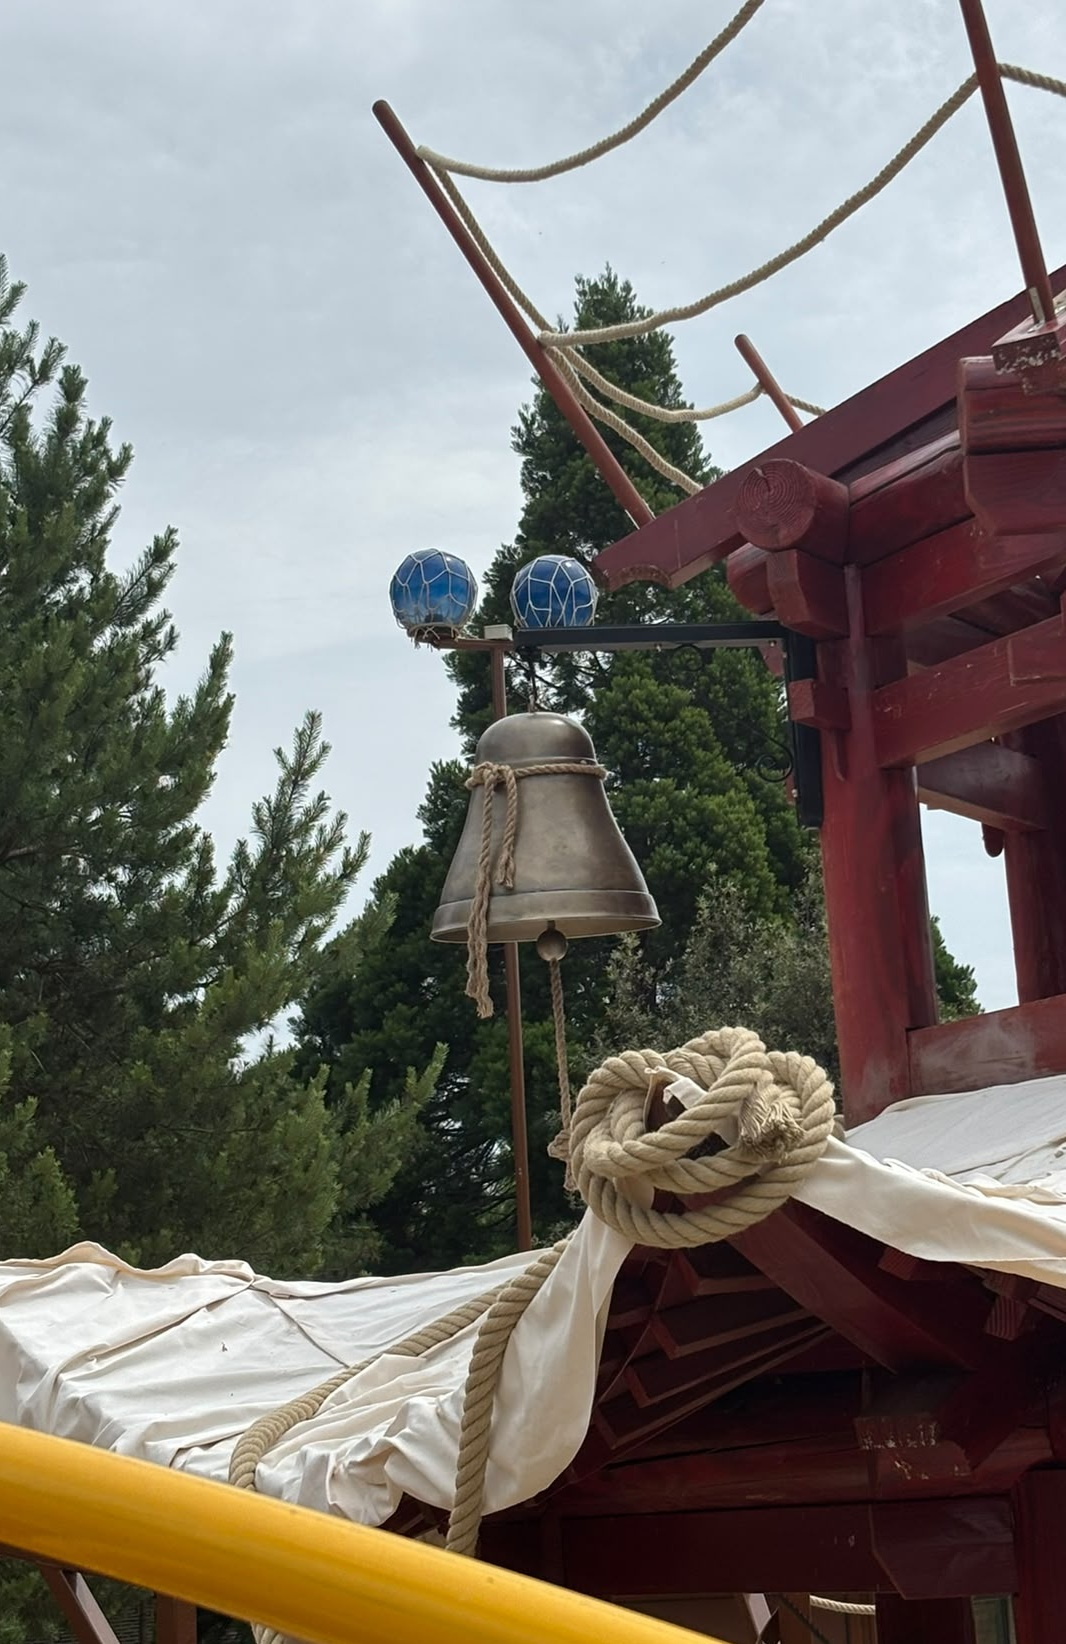
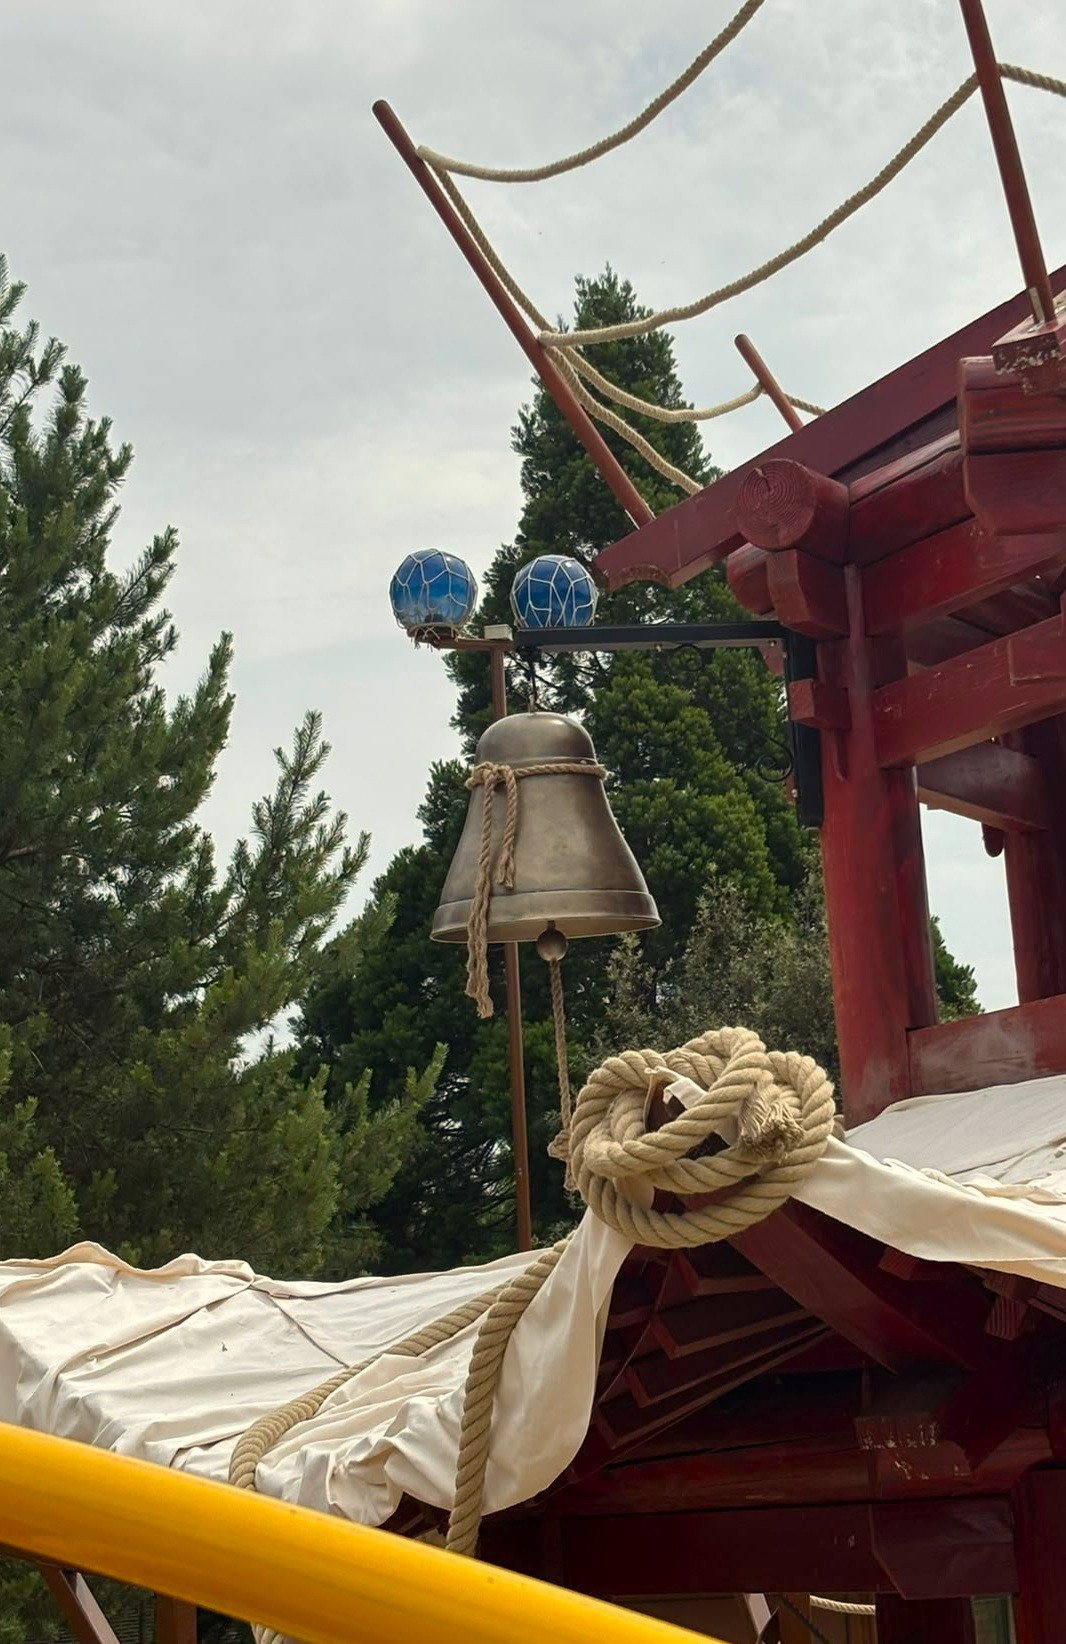
mid

Changed region(s): [[0.0, 0.8686, 0.6811, 1.0], [0.2477, 0.9927, 0.3096, 1.0]]

diff --git a/project-museum-connections.html b/project-museum-connections.html
@@ -1,93 +1,135 @@
-<!DOCTYPE html>
+<!doctype html>
 <html lang="fr">
-<head>
-<meta charset="UTF-8">
-<meta name="viewport" content="width=device-width, initial-scale=1.0">
-<title>Museum Connections</title>
-<meta name="description" content="Museum Connections">
-<link rel="preconnect" href="https://fonts.googleapis.com">
-<link rel="preconnect" href="https://fonts.gstatic.com" crossorigin>
-<link href="https://fonts.googleapis.com/css2?family=Space+Grotesk:wght@500;600;700&family=Inter:wght@400;500;600&family=IBM+Plex+Mono:wght@400;500&display=swap" rel="stylesheet">
-<link rel="icon" href="favicon.ico" sizes="any">
-<link rel="icon" href="favicon-32.png" type="image/png" sizes="32x32">
-<link rel="icon" href="favicon-16.png" type="image/png" sizes="16x16">
-<link rel="apple-touch-icon" href="apple-touch-icon.png">
-<link rel="stylesheet" href="style.css">
-</head>
-<body>
-<header class="site-header">
-  <nav class="nav">
-    <a href="index.html" class="nav-current"><span class="nav-arrow">&lt;</span> Retour à l'accueil</a>
-    <button class="nav-toggle" aria-label="Ouvrir le menu">☰</button>
-    <ul class="nav-links">
-      <li><a href="index.html" aria-current="page">Portfolio</a></li>
-      <li><a href="qui-suis-je.html">Qui suis-je ?</a></li>
-      <li><a href="contact.html">Contact</a></li>
-    </ul>
-  </nav>
-</header>
+  <head>
+    <meta charset="UTF-8" />
+    <meta name="viewport" content="width=device-width, initial-scale=1.0" />
+    <title>Museum Connections</title>
+    <meta name="description" content="Museum Connections" />
+    <link rel="preconnect" href="https://fonts.googleapis.com" />
+    <link rel="preconnect" href="https://fonts.gstatic.com" crossorigin />
+    <link
+      href="https://fonts.googleapis.com/css2?family=Space+Grotesk:wght@500;600;700&family=Inter:wght@400;500;600&family=IBM+Plex+Mono:wght@400;500&display=swap"
+      rel="stylesheet"
+    />
+    <link rel="icon" href="favicon.ico" sizes="any" />
+    <link rel="icon" href="favicon-32.png" type="image/png" sizes="32x32" />
+    <link rel="icon" href="favicon-16.png" type="image/png" sizes="16x16" />
+    <link rel="apple-touch-icon" href="apple-touch-icon.png" />
+    <link rel="stylesheet" href="style.css" />
+  </head>
+  <body>
+    <header class="site-header">
+      <nav class="nav">
+        <a href="index.html" class="nav-current"
+          ><span class="nav-arrow">&lt;</span> Retour à l'accueil</a
+        >
+        <button class="nav-toggle" aria-label="Ouvrir le menu">☰</button>
+        <ul class="nav-links">
+          <li><a href="index.html" aria-current="page">Portfolio</a></li>
+          <li><a href="qui-suis-je.html">Qui suis-je ?</a></li>
+          <li><a href="contact.html">Contact</a></li>
+        </ul>
+      </nav>
+    </header>
 
-<main>
-
-  <section class="page-header" style="padding-bottom: 0;">
-    <div class="wrap">
-      <a href="index.html" class="back-link">&lt; Retour à l'accueil</a>
-      <h1 class="reveal">Museum Connections</h1>
-      <p class="project-meta-line reveal reveal-delay-1">The Immersers • Nantes/Paris • 2026</p>
-    </div>
-  </section>
-
-  <section style="padding: 32px 0;">
-    <div class="wrap">
-      <div class="reveal reveal-group reveal-delay-2">
-        <p class="desc">
-          Co-fabrication avec Maël Pinard d'un meuble avec Pepper's ghost intégré pour le stand du studio nantais The Immersers lors du Museum Connections 2026.
-        </p>
-        <p class="desc">
-          L'installation permettait aux spectateurs du salon à Paris Expo de rencontrer une version miniature d'un membre du studio à Nantes, le tout assuré par un duplex en live.
-        </p>
-         <p class="desc">
-          Intégration du matériel audiovisuel au dispositif avec une contrainte de facilité d'accessibilité tout en conservant un camouflage total afin de ne pas dénaturer le style de l'armoire.
-        </p>
-        <p class="desc">
-        </p>
-      </div>
-    </div>
-  </section>
-
-  <section style="padding-top: 0;">
-    <div class="wrap">
-      <div class="gallery-wrap">
-        <button class="gallery-arrow gallery-arrow-left" aria-label="Précédent"></button>
-        <div class="gallery-grid">
-        
-        <button class="gallery-tile reveal reveal-group reveal-delay-2 no-slide" data-embed-src="https://www.linkedin.com/embed/feed/update/urn:li:ugcPost:7416811397503836160?compact=1" aria-label="Vidéo — Museum Connections">
-          <img src="images/museum-connections-cover.jpg" alt="Vidéo Museum Connections">
-          <span class="play-icon"></span>
-        </button>
-        
+    <main>
+      <section class="page-header" style="padding-bottom: 0">
+        <div class="wrap">
+          <a href="index.html" class="back-link">&lt; Retour à l'accueil</a>
+          <h1 class="reveal">Museum Connections</h1>
+          <p class="project-meta-line reveal reveal-delay-1">
+            The Immersers • Nantes/Paris • 2026
+          </p>
         </div>
-        <button class="gallery-arrow gallery-arrow-right" aria-label="Suivant"></button>
-      </div>
+      </section>
+
+      <section style="padding: 32px 0">
+        <div class="wrap">
+          <div class="reveal reveal-group reveal-delay-2">
+            <p class="desc">
+              Co-fabrication avec Maël Pinard d'un meuble avec Pepper's ghost
+              intégré pour le stand du studio nantais The Immersers lors du
+              Museum Connections 2026.
+            </p>
+            <p class="desc">
+              L'installation permettait aux spectateurs du salon à Paris Expo de
+              rencontrer une version miniature d'un membre du studio à Nantes,
+              le tout assuré par un duplex en live.
+            </p>
+            <p class="desc">
+              Intégration du matériel audiovisuel au dispositif avec une
+              contrainte de facilité d'accessibilité tout en conservant un
+              camouflage total afin de ne pas dénaturer le style de l'armoire.
+            </p>
+            <p class="desc"></p>
+          </div>
+        </div>
+      </section>
+
+      <section style="padding-top: 0">
+        <div class="wrap">
+          <div class="gallery-wrap">
+            <button
+              class="gallery-arrow gallery-arrow-left"
+              aria-label="Précédent"
+            ></button>
+            <div class="gallery-grid">
+              <button
+                class="gallery-tile reveal reveal-group reveal-delay-2 no-slide"
+                data-embed-src="https://www.linkedin.com/embed/feed/update/urn:li:ugcPost:7416811397503836160?compact=1"
+                aria-label="Vidéo — Museum Connections"
+              >
+                <img
+                  src="images/museum-connections-cover.jpg"
+                  alt="Vidéo Museum Connections"
+                />
+                <span class="play-icon"></span>
+              </button>
+              <button
+                class="gallery-tile reveal reveal-group reveal-delay-2 no-slide"
+              >
+                <img
+                  src="images/museum-connections-02.jpg"
+                  alt="Museum Connections"
+                />
+              </button>
+              <button
+                class="gallery-tile reveal reveal-group reveal-delay-2 no-slide"
+              >
+                <img
+                  src="images/museum-connections-03.jpg"
+                  alt="Museum Connections"
+                />
+              </button>
+            </div>
+            <button
+              class="gallery-arrow gallery-arrow-right"
+              aria-label="Suivant"
+            ></button>
+          </div>
+        </div>
+      </section>
+
+      <nav class="project-nav">
+        <a href="project-la-cage.html"
+          ><span class="dir">← Projet précédent</span
+          ><span class="title">La Cage</span></a
+        >
+        <a href="project-legende-disparue.html"
+          ><span class="dir">Projet suivant →</span
+          ><span class="title">La Légende Disparue</span></a
+        >
+      </nav>
+    </main>
+
+    <div class="lightbox">
+      <button class="lightbox-close" aria-label="Fermer">✕</button>
+      <button class="lightbox-prev" aria-label="Photo précédente"></button>
+      <img src="" alt="" />
+      <div class="lightbox-video"></div>
+      <button class="lightbox-next" aria-label="Photo suivante"></button>
     </div>
-  </section>
 
-  <nav class="project-nav">
-    <a href="project-la-cage.html"><span class="dir">← Projet précédent</span><span class="title">La Cage</span></a>
-    <a href="project-legende-disparue.html"><span class="dir">Projet suivant →</span><span class="title">La Légende Disparue</span></a>
-  </nav>
-
-</main>
-
-
-<div class="lightbox">
-  <button class="lightbox-close" aria-label="Fermer">✕</button>
-  <button class="lightbox-prev" aria-label="Photo précédente"></button>
-  <img src="" alt="">
-  <div class="lightbox-video"></div>
-  <button class="lightbox-next" aria-label="Photo suivante"></button>
-</div>
-
-<script src="script.js"></script>
-</body>
+    <script src="script.js"></script>
+  </body>
 </html>

diff --git a/project-parc-asterix.html b/project-parc-asterix.html
@@ -53,6 +53,9 @@
             <p class="desc">
               Modélisation 3D sur références et impression 3D, assemblage, ponçage et lissage, peinture et patine.
             </p>
+            <div class="linkedin-embed reveal reveal-group reveal-delay-2 no-slide" style="margin-top: 24px;">
+              <iframe src="https://www.linkedin.com/embed/feed/update/urn:li:ugcPost:7470769306834837505?collapsed=1" frameborder="0" allowfullscreen="" title="Post intégré" style="aspect-ratio: 504 / 627;"></iframe>
+            </div>
           </div>
         </div>
       </section>
@@ -65,6 +68,34 @@
               aria-label="Précédent"
             ></button>
             <div class="gallery-grid">
+              <button
+                class="gallery-tile reveal reveal-group reveal-delay-2 no-slide"
+                data-video-src="images/asterix-video-01.mp4"
+                aria-label="Vidéo — Les comptoirs d'Epidemaïs"
+              >
+                <video
+                  src="images/asterix-video-01.mp4"
+                  poster="images/asterix-video-01-poster.jpg"
+                  autoplay
+                  muted
+                  loop
+                  playsinline
+                ></video>
+              </button>
+              
+              
+             <button class="gallery-tile reveal reveal-group reveal-delay-2 no-slide">
+                <img
+                  src="images/asterix-03.jpg"
+                  alt="Les comptoirs d'Epidemaïs"
+                />
+              </button>
+              <button class="gallery-tile reveal reveal-group reveal-delay-2 no-slide">
+                <img
+                  src="images/asterix-04.jpg"
+                  alt="Les comptoirs d'Epidemaïs"
+                />
+              </button>
               <button class="gallery-tile reveal reveal-group reveal-delay-2 no-slide">
                 <img
                   src="images/asterix-cover.jpg"
@@ -73,11 +104,17 @@
               </button>
               <button class="gallery-tile reveal reveal-group reveal-delay-2 no-slide">
                 <img
-                  src="images/asterix-02.jpg"
+                  src="images/asterix-05.jpg"
                   alt="Les comptoirs d'Epidemaïs"
                 />
               </button>
-             
+              <button class="gallery-tile reveal reveal-group reveal-delay-2 no-slide">
+                <img
+                  src="images/asterix-06.jpg"
+                  alt="Les comptoirs d'Epidemaïs"
+                />
+              </button>
+              
             </div>
             <button
               class="gallery-arrow gallery-arrow-right"
@@ -103,6 +140,7 @@
       <button class="lightbox-close" aria-label="Fermer">✕</button>
       <button class="lightbox-prev" aria-label="Photo précédente"></button>
       <img src="" alt="" />
+      <div class="lightbox-video"></div>
       <button class="lightbox-next" aria-label="Photo suivante"></button>
     </div>
 

diff --git a/project-stade-de-france.html b/project-stade-de-france.html
@@ -86,6 +86,12 @@
                 <img src="https://img.youtube.com/vi/icW84agksGE/hqdefault.jpg" alt="Vidéo 120 ans du Crunch" />
                 <span class="play-icon"></span>
               </button>
+              <button class="gallery-tile reveal reveal-group reveal-delay-2 no-slide">
+                <img
+                  src="images/crunch-cover.jpg"
+                  alt="Cérémonie du crunch"
+                />
+              </button>
             </div>
             <button
               class="gallery-arrow gallery-arrow-right"